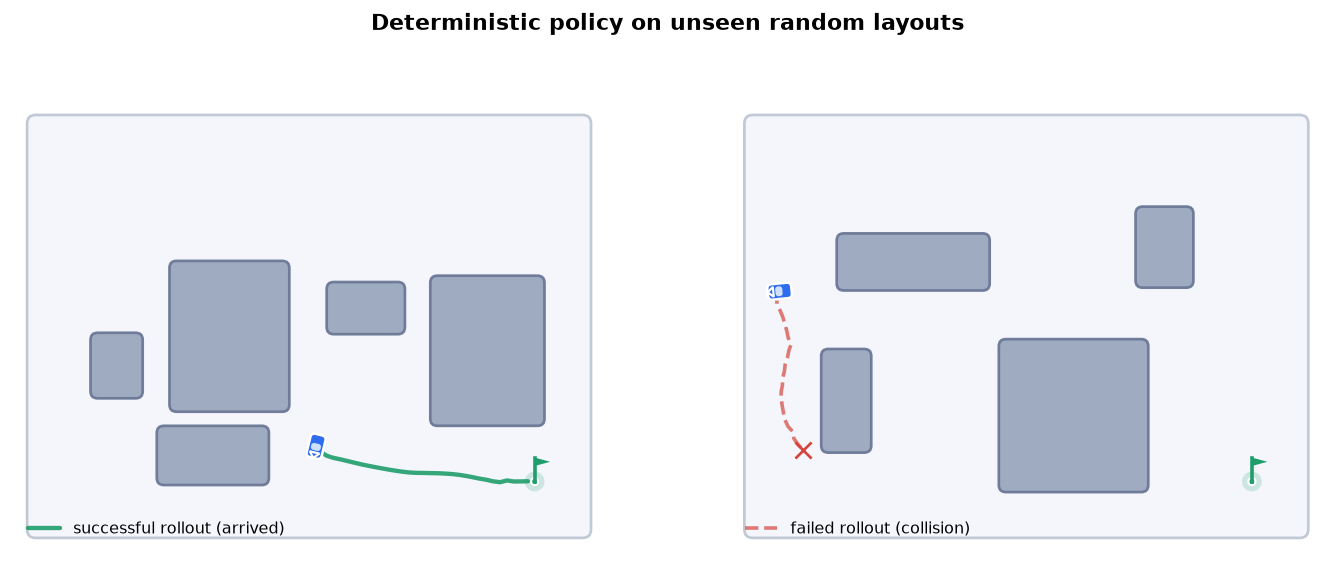
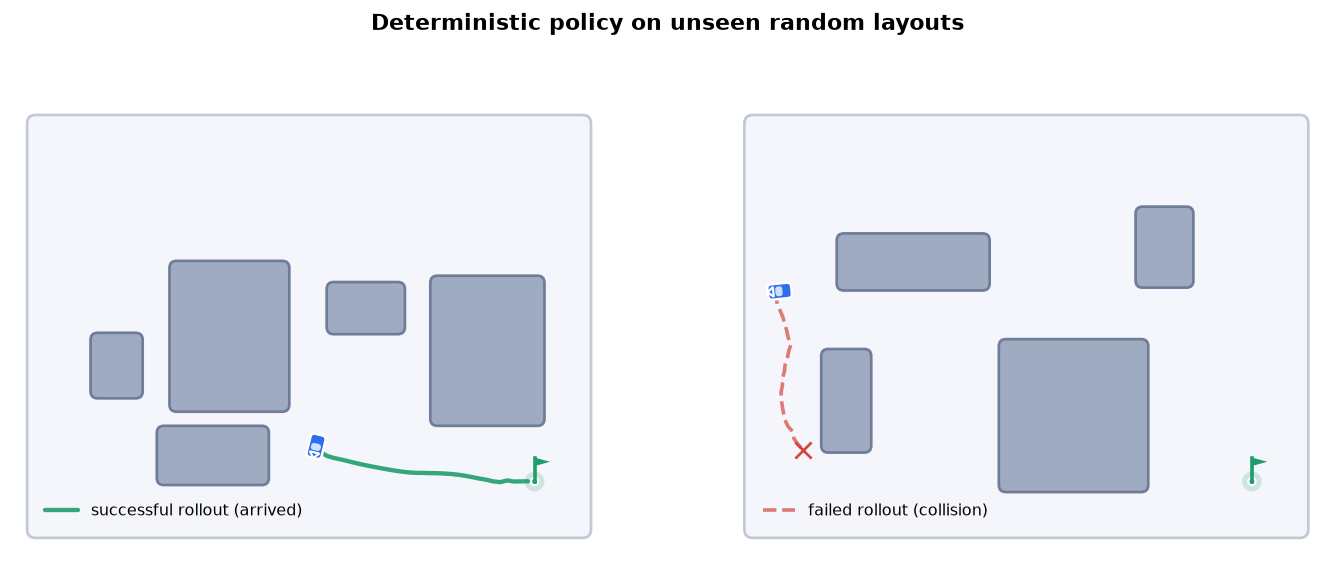
style: high-res full-bleed demo GIF + figure polish
The GIF now renders the field edge-to-edge with square corners and an
on-field HUD (no page background peeks out on GitHub's dark theme) at
704x528. Trajectory legends move inside the panels; the POI heatmap
covers the full field with no white halos around obstacles.

Changed region(s): [[0.0307, 0.8726, 0.215, 0.9628], [0.5528, 0.8726, 0.7371, 0.9628]]

diff --git a/report/make_gif.py b/report/make_gif.py
@@ -2,8 +2,9 @@
 
 Loads report/assets/actor.pt, rolls out the deterministic policy on freshly
 sampled layouts until it collects a few successful episodes, then re-renders
-each recorded episode frame-by-frame with the vector renderer (`viz`) and
-writes an animated GIF preview to docs/assets/demo.gif.
+each recorded episode frame-by-frame with the same vector renderer (`viz`)
+that draws every report figure, and writes an animated GIF preview to
+docs/assets/demo.gif.
 
     uv run python report/make_gif.py
 """
@@ -11,6 +12,7 @@ writes an animated GIF preview to docs/assets/demo.gif.
 from __future__ import annotations
 
 import io
+import os
 import random
 import contextlib
 from pathlib import Path
@@ -22,6 +24,7 @@ import matplotlib
 matplotlib.use("Agg")
 import matplotlib.pyplot as plt
 from PIL import Image
+from matplotlib.patches import Circle
 
 from mobile_robot_navigation import viz
 from mobile_robot_navigation.agent import Actor
@@ -34,9 +37,13 @@ MAX_TRIES = 200
 FRAME_STRIDE = 3
 HOLD_LAST = 8
 FRAME_MS = 90
+DPI = 110
 
 OUT = Path(__file__).parent.parent / "docs" / "assets" / "demo.gif"
 ASSETS = Path(__file__).parent / "assets"
+
+INK = "#27324a"
+MUTED = "#6b7896"
 
 
 def record_episode(actor, device, env):
@@ -73,31 +80,61 @@ def record_episode(actor, device, env):
     return frames, outcome, meta
 
 
-def render_frame(fig, ax, meta, trail, pose, episode, total):
-    """Draw one animation frame and rasterize it to a PIL image."""
+def render_frame(fig, ax, meta, trail, pose, episode, total, step):
+    """One frame: the field fills the whole image, HUD text sits on it.
+
+    Full-bleed with square corners, so no page background ever peeks out —
+    the GIF looks right on GitHub's dark and light themes alike.
+    """
+    w, h = meta["width"], meta["height"]
     ax.clear()
-    viz.draw_field(ax, meta["width"], meta["height"])
+
+    # ── Full-bleed field with a flat border ──
+    ax.set_facecolor(viz.FIELD_FACE)
+    ax.set_xlim(0, w)
+    ax.set_ylim(h, 0)
+    ax.set_aspect("equal")
+    ax.axis("off")
+
     viz.draw_obstacles(ax, meta["obstacles"])
     viz.draw_target(ax, meta["target"], meta["target_threshold"])
+
+    # ── Path so far, with the start marker used in the report figures ──
     if len(trail) > 1:
         xs, ys = zip(*trail)
         ax.plot(
-            xs, ys, color=viz.TRAIL_COLOR, linewidth=2.0,
-            alpha=0.75, solid_capstyle="round", zorder=7,
+            xs, ys, color=viz.TRAIL_COLOR, linewidth=2.2,
+            alpha=0.85, solid_capstyle="round", zorder=7,
         )
+        ax.add_patch(
+            Circle(
+                (xs[0], ys[0]), 7.0, facecolor="white",
+                edgecolor=viz.TRAIL_COLOR, linewidth=2.0, zorder=7,
+            ),
+        )
+
+    # ── Rover and its lidar fan, both anchored at the body centre ──
     x, y, alpha, scans = pose
+    cx, cy = x + 16, y + 16
     viz.draw_lidar(
-        ax, x, y, alpha,
+        ax, cx, cy, alpha,
         meta["scan_range"], scans, meta["max_linear"],
     )
-    viz.draw_rover(ax, x, y, alpha, scale=0.9)
-    ax.set_title(
-        f"DDPG policy on a random layout  ({episode}/{total})",
-        fontsize=10,
+    viz.draw_rover(ax, cx, cy, alpha)
+
+    # ── HUD on the field itself ──
+    ax.text(
+        16, 14, "DDPG policy on unseen random layouts",
+        color=INK, fontsize=11, fontweight="bold", va="top", zorder=9,
+    )
+    ax.text(
+        w - 16, 14, f"episode {episode:02d}/{total:02d} · step {step:03d}",
+        color=MUTED, fontsize=10, family="monospace",
+        ha="right", va="top", zorder=9,
     )
 
     buf = io.BytesIO()
-    fig.savefig(buf, format="png", dpi=100)
+    fig.savefig(buf, format="png", dpi=DPI, facecolor=viz.FIELD_FACE)
     buf.seek(0)
     return Image.open(buf).convert("P", palette=Image.ADAPTIVE)
 
@@ -108,7 +145,10 @@ def main() -> None:
     torch.manual_seed(SEED)
 
     device = torch.device(
-        "mps" if torch.backends.mps.is_available() else "cpu",
+        os.environ.get(
+            "MRN_DEVICE",
+            "mps" if torch.backends.mps.is_available() else "cpu",
+        ),
     )
     actor = Actor(10, 2)
     ckpt = torch.load(ASSETS / "actor.pt", map_location="cpu")
@@ -127,17 +167,18 @@ def main() -> None:
     if not episodes:
         raise SystemExit("no successful episodes to animate")
 
-    fig, ax = plt.subplots(figsize=(4.4, 3.3))
-    fig.subplots_adjust(left=0.02, right=0.98, top=0.9, bottom=0.02)
+    fig, ax = plt.subplots(figsize=(6.4, 4.8))
+    fig.subplots_adjust(left=0, right=1, top=1, bottom=0)
     images = []
     for idx, (frames, meta) in enumerate(episodes, start=1):
         picks = list(range(0, len(frames), FRAME_STRIDE))
         if picks[-1] != len(frames) - 1:
             picks.append(len(frames) - 1)
         for k in picks:
-            trail = [(f[0], f[1]) for f in frames[: k + 1]]
+            trail = [(f[0] + 16, f[1] + 16) for f in frames[: k + 1]]
             img = render_frame(
-                fig, ax, meta, trail, frames[k], idx, len(episodes),
+                fig, ax, meta, trail, frames[k],
+                idx, len(episodes), k,
             )
             images.append(img)
         images.extend([images[-1]] * HOLD_LAST)

diff --git a/report/make_figures.py b/report/make_figures.py
@@ -172,14 +172,21 @@ def fig_poi_heatmap():
     env.reset()
     rover = (env.chopper.x, env.chopper.y)
 
-    step = 12
-    xs = np.arange(40, env.observation_shape[1] - 40, step)
-    ys = np.arange(40, env.observation_shape[0] - 40, step)
+    width = env.observation_shape[1]
+    height = env.observation_shape[0]
+    step = 10
+    xs = np.arange(step / 2, width, step)
+    ys = np.arange(step / 2, height, step)
     grid = np.full((len(ys), len(xs)), np.nan)
 
     def in_obstacle(px, py):
+        # Shrink by one grid step so coloured cells reach under the patch
+        # edges — no light halo between the heatmap and the obstacles.
         for x_max, x_min, y_max, y_min in env.obstacles_cord[4:]:
-            if x_min <= px <= x_max and y_min <= py <= y_max:
+            if (
+                x_min + step <= px <= x_max - step
+                and y_min + step <= py <= y_max - step
+            ):
                 return True
         return False
 
@@ -198,10 +205,17 @@ def fig_poi_heatmap():
             grid[j, i] = h
 
     fig, ax = plt.subplots(figsize=(7.4, 5.6))
-    extent = (xs[0], xs[-1], ys[-1], ys[0])
+
+    # NaN cells sit under the obstacle patches: make them transparent and
+    # paint the axes in the obstacle colour so no white gaps appear.
+    cmap = plt.get_cmap("viridis_r").copy()
+    cmap.set_bad(alpha=0)
+    ax.set_facecolor(viz.OBSTACLE_FACE)
+
+    extent = (0, width, height, 0)
     im = ax.imshow(
         grid, extent=extent, origin="upper",
-        cmap="viridis_r", aspect="equal",
+        cmap=cmap, aspect="equal",
     )
     obstacles = [
         {"x_max": o[0], "x_min": o[1], "y_max": o[2], "y_min": o[3]}
@@ -210,8 +224,8 @@ def fig_poi_heatmap():
     viz.draw_obstacles(ax, obstacles)
     viz.draw_target(ax, (env.target_x, env.target_y), env.target_threshold)
     viz.draw_rover(ax, rover[0], rover[1], 0.4)
-    ax.set_xlim(20, env.observation_shape[1] - 20)
-    ax.set_ylim(env.observation_shape[0] - 20, 20)
+    ax.set_xlim(0, width)
+    ax.set_ylim(height, 0)
     ax.set_aspect("equal")
     ax.axis("off")
     cb = fig.colorbar(im, ax=ax, fraction=0.045, pad=0.02)
@@ -284,7 +298,10 @@ def _draw_rollout(ax, t, color, label, dashed=False):
         viz.draw_trajectory(ax, t["xs"], t["ys"], color=color, label=label)
     alpha0 = t["alphas"][0] if t.get("alphas") else 0.0
     viz.draw_rover(ax, t["xs"][0], t["ys"][0], alpha0)
-    ax.legend(frameon=False, fontsize=9, loc="lower left")
+    ax.legend(
+        frameon=False, fontsize=9,
+        loc="lower left", bbox_to_anchor=(0.03, 0.04),
+    )
 
 
 def fig_trajectory():